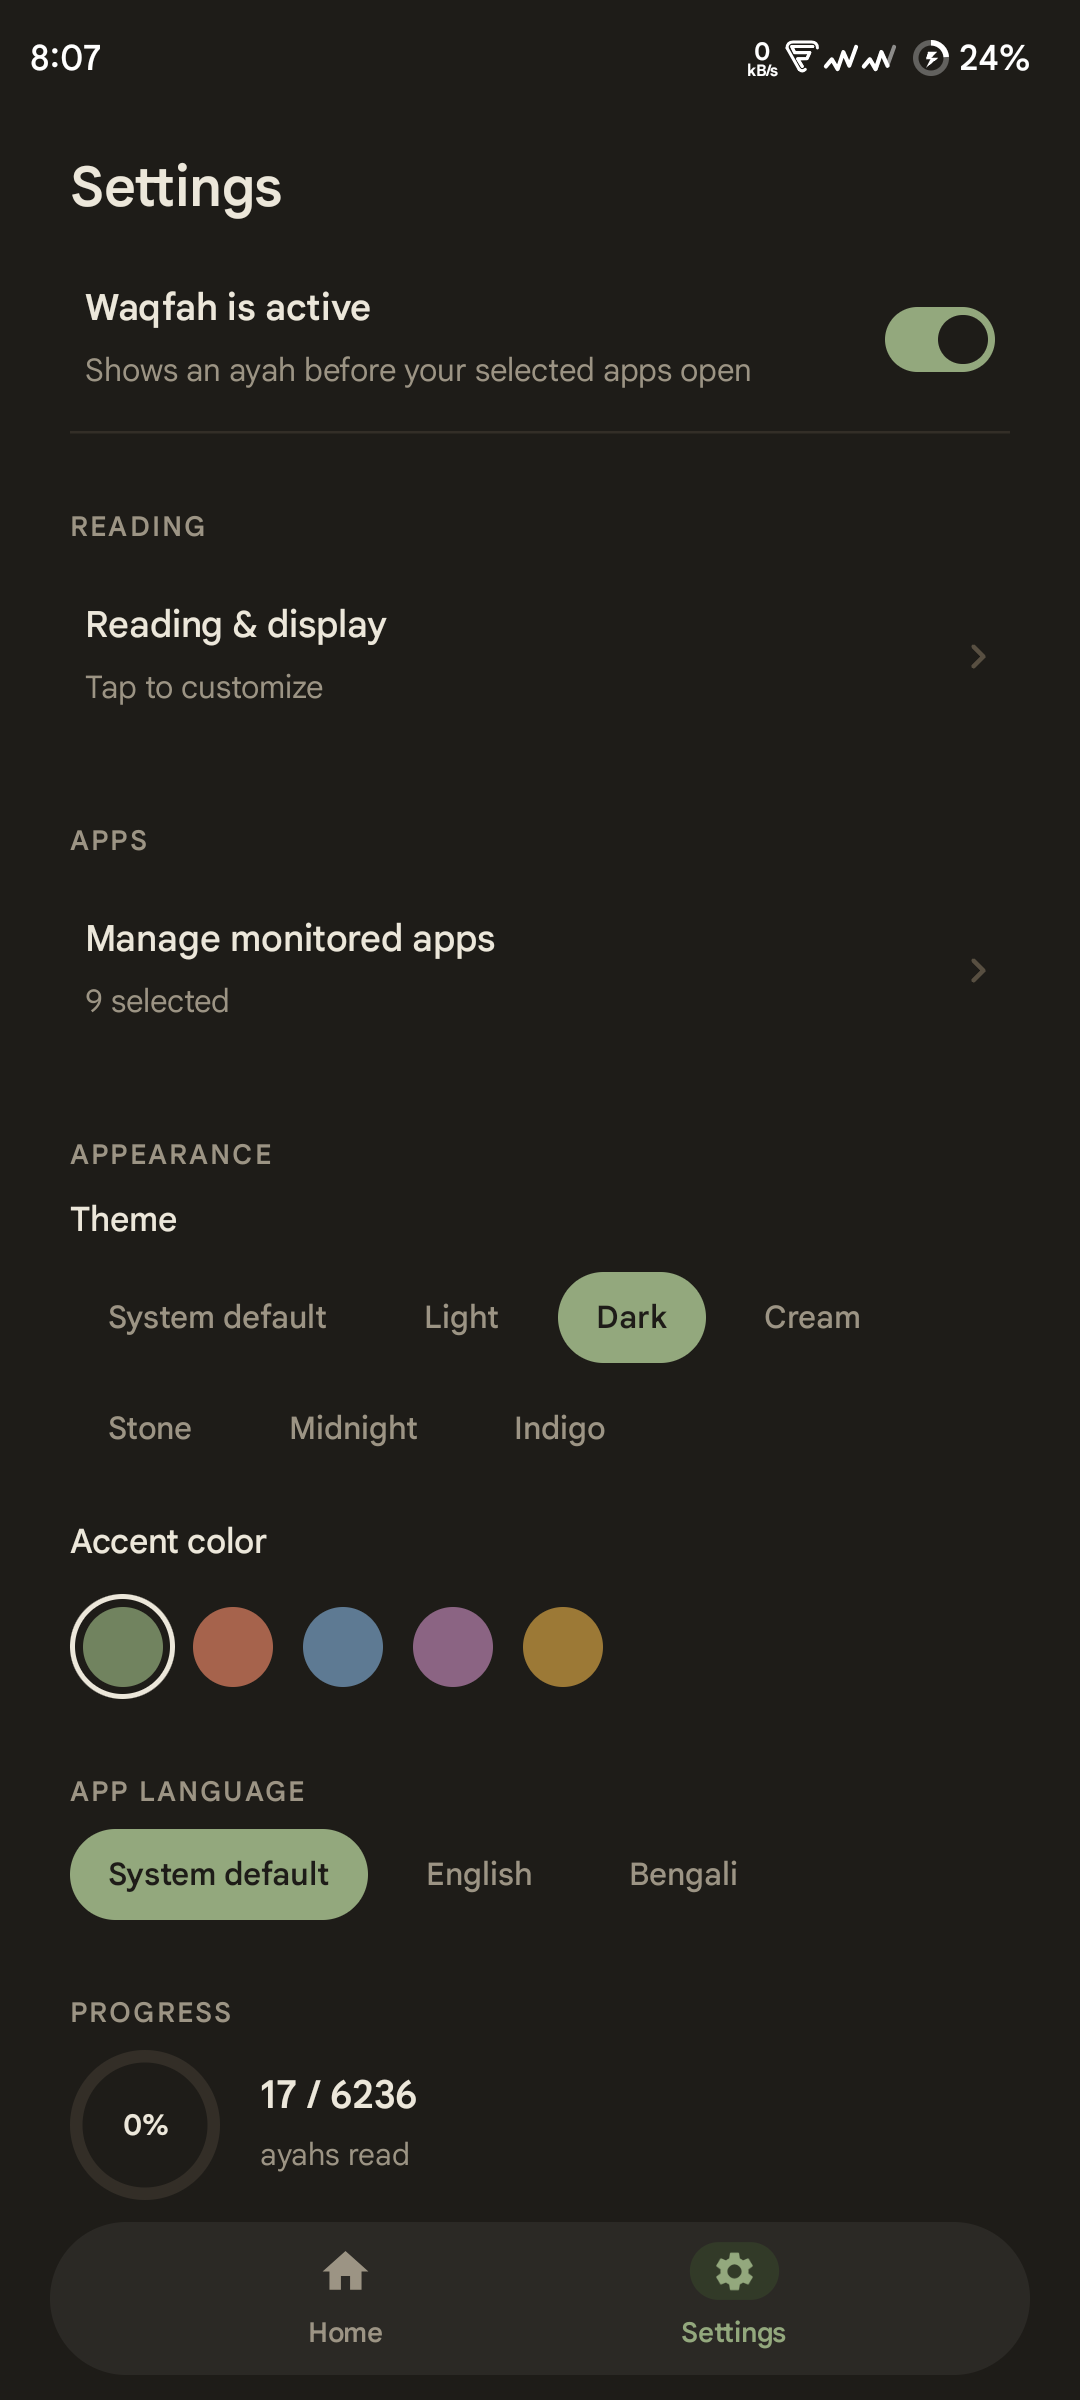
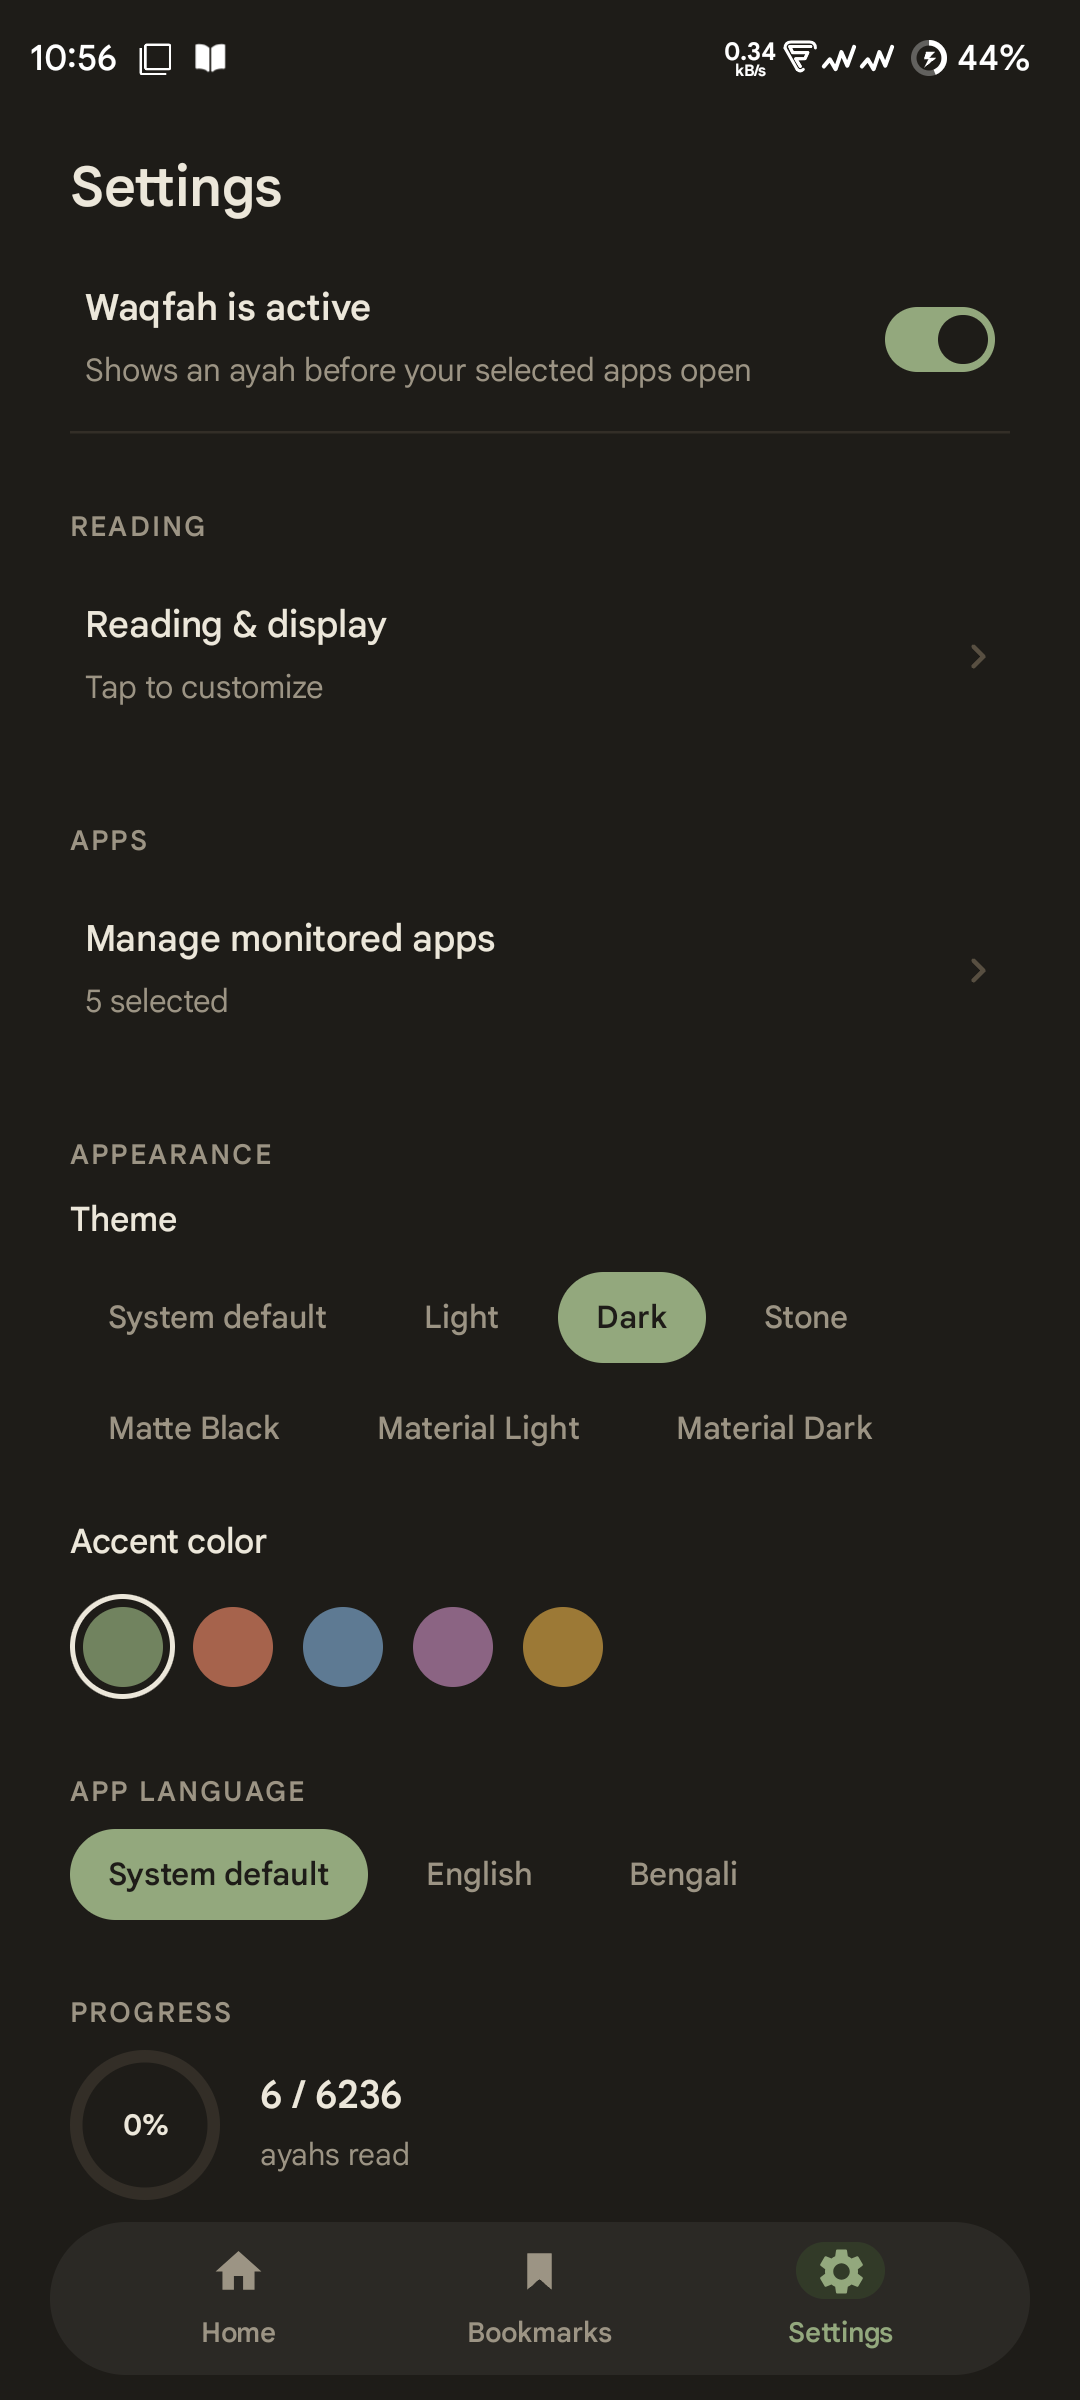
docs: refresh the screenshots for the new theme set
The gallery still showed Cream, Midnight and Indigo — themes that no longer
exist — and all five shots were the same screen in a different hue. Replace
them with six that each show something different: the reading screen with
full aids, Arabic only, the Bengali interface with Bengali aids, the pause
over a monitored app, the theme picker, and saved ayahs. Every palette
appears once.

The F-Droid listing's settings screenshot showed the same dead themes, so
it is refreshed too.

diff --git a/README.md b/README.md
@@ -50,15 +50,16 @@ already have — one ayah at a time, without asking you to build a new routine.
 
 **Look and feel**
 
-- Seven themes, five accent colours.
+- Seven themes, five accent colours — every theme but Stone takes the picker.
 - English or Bengali interface, or follow the system language.
 
 <p align="center">
-  <img src="docs/img/theme1.png" width="19%" alt="The reading screen in the Light theme: warm off-white paper with a sage accent">
-  <img src="docs/img/theme2.png" width="19%" alt="The reading screen in the Cream theme: cream paper with a terracotta accent">
-  <img src="docs/img/theme3.png" width="19%" alt="The reading screen in the Stone theme: monochrome sage-gray with an ink accent">
-  <img src="docs/img/theme4.png" width="19%" alt="The reading screen in the Midnight theme: a black OLED background with a lamplight-gold accent">
-  <img src="docs/img/theme5.png" width="19%" alt="The reading screen in the Indigo theme: a night-sky navy background with a gold accent">
+  <img src="docs/img/reading-light.png" width="16%" alt="The reading screen in the Light theme: warm off-white paper with a sage accent, pronunciation and an English translation under the ayah">
+  <img src="docs/img/reading-arabic-only.png" width="16%" alt="The reading screen in the Material Dark theme with both aids off: Arabic script alone on an accent-tinted near-black page">
+  <img src="docs/img/reading-bengali.png" width="16%" alt="The Stone theme with the interface and both aids set to Bengali: Bengali pronunciation and translation under the ayah">
+  <img src="docs/img/pause-matte-black.png" width="16%" alt="The pause appearing over Chrome in the Matte Black theme, with Mark Read and Open Chrome buttons">
+  <img src="docs/img/appearance-material-light.png" width="16%" alt="Settings in the Material Light theme: seven theme choices and five accent swatches, with Material Light and Sage selected">
+  <img src="docs/img/bookmarks-dark.png" width="16%" alt="The Bookmarks tab in the Dark theme showing a saved ayah with the bookmark ribbon filled">
 </p>
 
 ## Getting started
